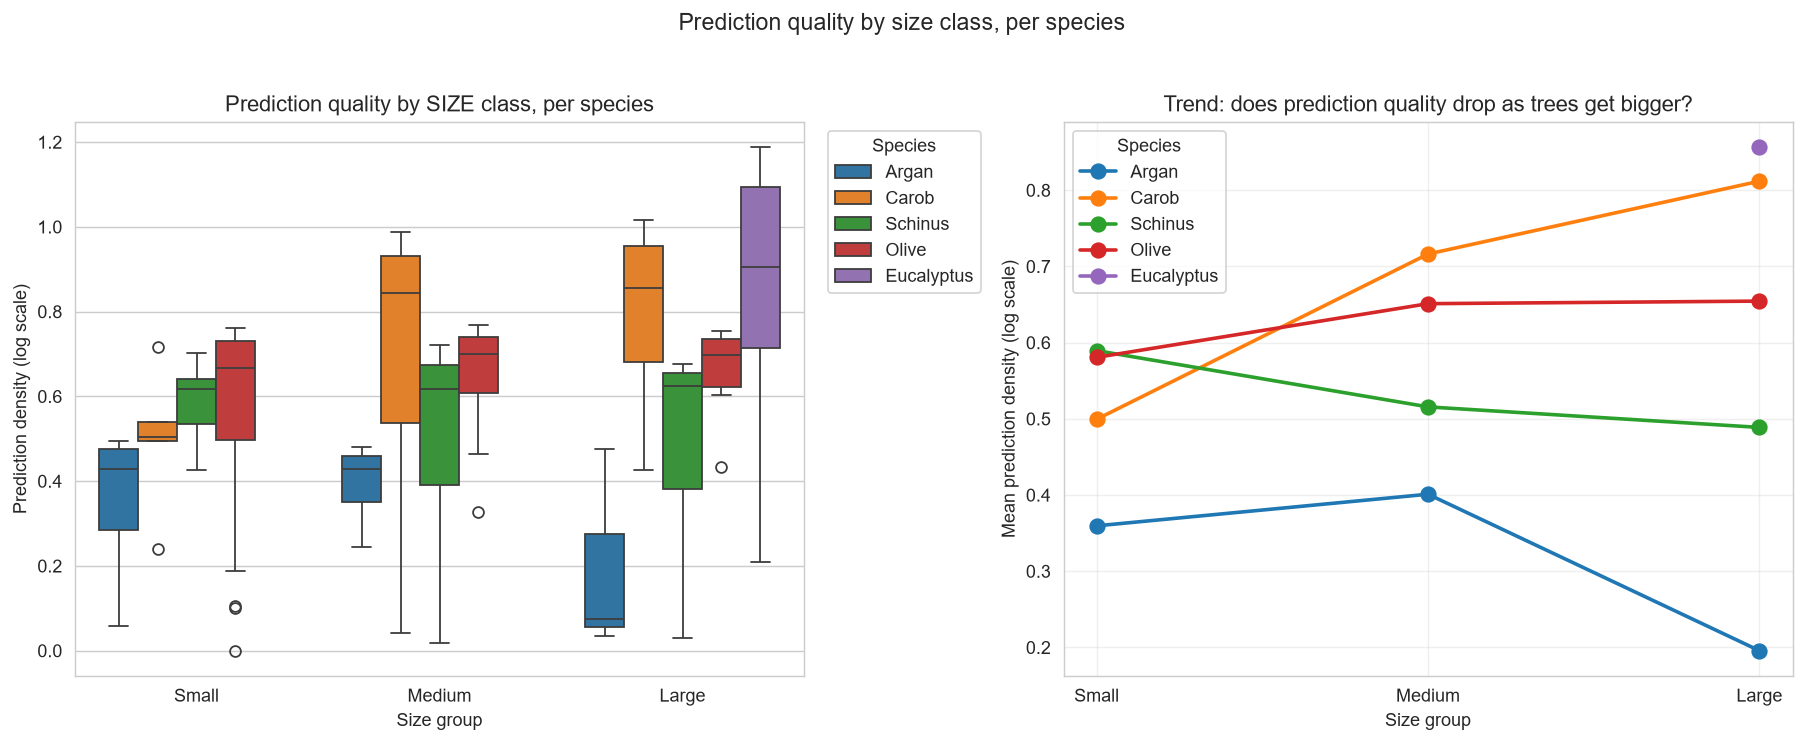
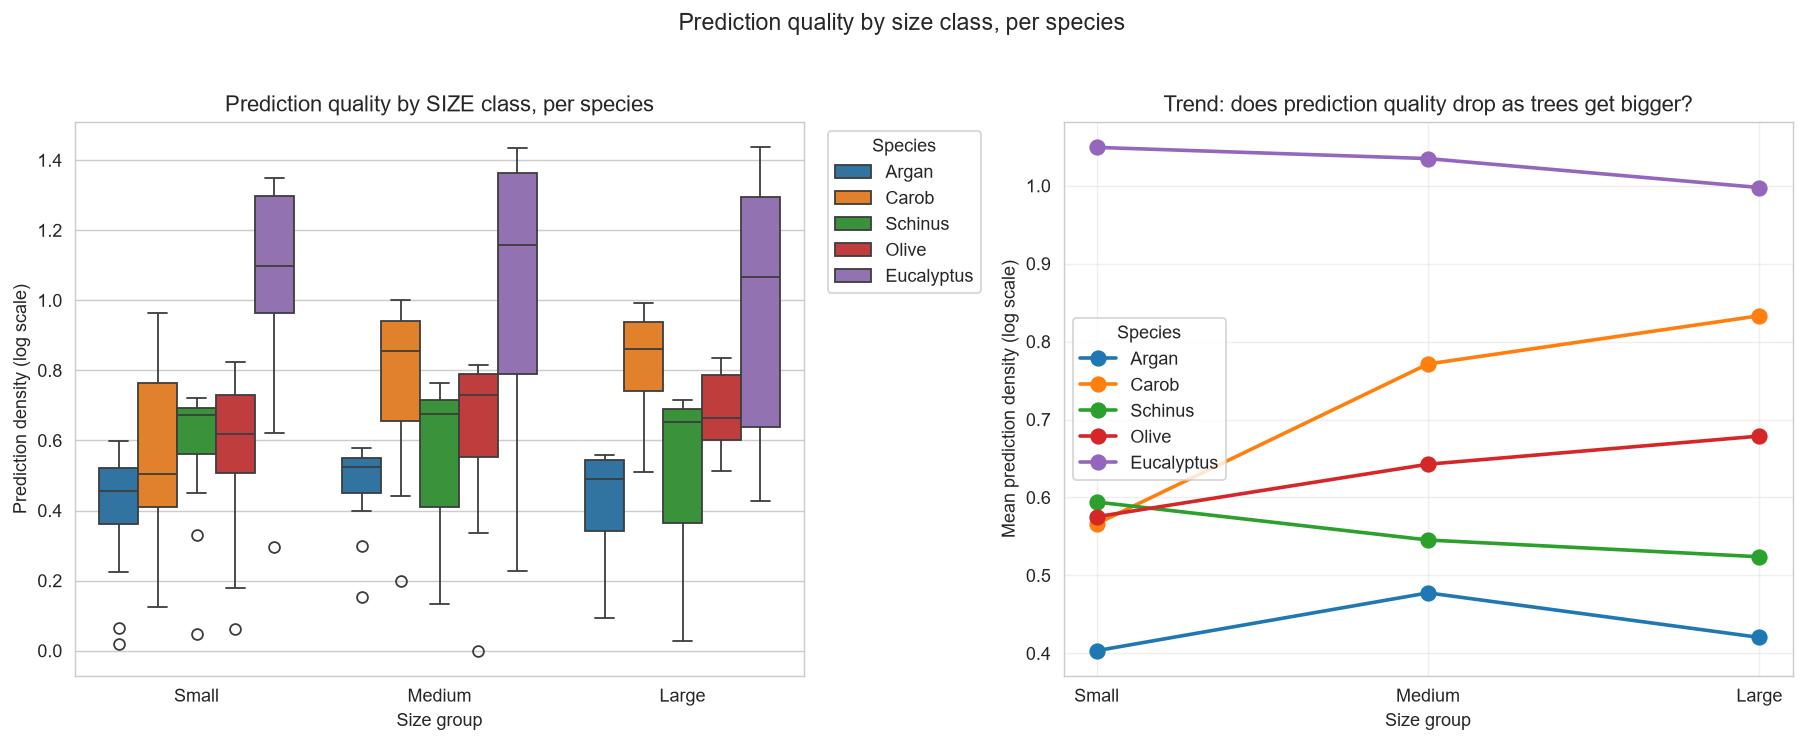
Final cleanup: fix coverage selection, size grouping, and report text for 5-species Ht+CD+BD model

diff --git a/BRAMBLE_report.md b/BRAMBLE_report.md
@@ -1,0 +1,128 @@
+# BRAMBLE Model Report (5 species, Ht+CD+BD, with Eucalyptus)
+
+A hierarchical Bayesian model predicting tree biomass (kg) from height (Ht), crown
+diameter (CD) and basal diameter (BD), fit separately per species but sharing statistical
+strength across species (partial pooling), with species-specific residual noise. This version
+adds Eucalyptus to the original four species (Olive, Argan, Schinus, Carob), the richest
+predictor set explored on this project, for comparison against the deep-learning
+(Mambou-based) pipeline and against the simpler baseline branches.
+
+## 1. Data
+- Total trees: 240
+- Species: Argan, Carob, Schinus, Olive, Eucalyptus
+- Predictors: Ht, CD, BD
+- Train / test split: 192 / 48 trees (80/20, stratified by species
+  so each species keeps its own proportion in both sets)
+
+## 2. Model
+
+    log(biomass) = beta0_species + b1_species*log(Ht) + b2_species*log(CD) + b3_species*log(BD) + error_species
+
+Biomass grows with size roughly as a power law, so fitting on the log scale turns that curve
+into a straight line. Each species gets its own intercept and slopes, but those coefficients
+are drawn from a shared population-level distribution -- species with fewer trees (Argan,
+Eucalyptus) borrow statistical strength from the others instead of being fit in isolation. The
+noise term (error_species) is also species-specific rather than shared, since different species
+have genuinely different tree-to-tree variability. The model is fit with MCMC (NUTS sampler in
+PyMC), using a non-centered parameterization, a numerical trick that only helps the sampler
+converge and does not change what is being estimated.
+
+## 3. Convergence (Step 7)
+- Divergences: 2 (0 is ideal; a handful out of thousands of draws is not a concern)
+- Max R-hat: 1.002 (target: as close to 1.00 as possible -- means the 4
+  independent chains agree with each other)
+- Min ESS: 2875 (effective sample size -- how many *independent*
+  posterior draws the chains produced; higher is more precise)
+
+These three numbers together say the sampler actually explored the posterior properly and the
+fit can be trusted -- if any of them looked bad, nothing downstream would be reliable.
+
+## 4. Overall + per-species performance (Step 9, training data)
+
+**Overall (all species combined):** R2 = 0.931, RMSE = 112.06 kg,
+CV% = 57.8%, Coverage = 87.0% (target ~80%).
+
+An overall number can hide a species-specific weakness -- a few well-predicted species can
+compensate for one badly-predicted one and the average would still look fine. The table below
+splits the same predictions out by species:
+
+| Species | R2 | RMSE | CV % | Coverage % | N trees |
+| --- | --- | --- | --- | --- | --- |
+| Argan | 0.53 | 12.66 | 85.00 | 85.30 | 34 |
+| Carob | 0.87 | 18.63 | 34.70 | 84.20 | 38 |
+| Schinus | 0.72 | 24.58 | 57.70 | 85.70 | 42 |
+| Olive | 0.89 | 7.21 | 56.60 | 93.90 | 49 |
+| Eucalyptus | 0.58 | 285.53 | 25.70 | 82.80 | 29 |
+
+**Strongest fit:** Olive (R2 = 0.893). **Weakest fit:** Argan
+(R2 = 0.534) -- see the known limitation at the end of this report.
+
+![Observed vs Predicted, overall and per species](report_figures/obs_vs_pred_per_species.png)
+
+## 5. Calibration check (Step 8)
+
+Coverage tells us *how often* the real value lands inside the predicted P10-P90 range. The
+P10-P90 range comes from simulating random tree-to-tree noise (drawn from each species' own
+sigma) around each posterior draw's predicted mean -- this simulation, on its own, already
+restores the correct average after exponentiating from the log scale, so no separate
+bias-correction factor is applied on top of it (applying both would double-count the same
+correction). The histogram below shows, for every tree, where its real value landed as a
+percentile of its own simulated distribution -- if the model is well calibrated this should
+scatter evenly across 0-100.
+
+![Calibration](report_figures/calibration.png)
+
+## 6. Held-out test set (Step 10)
+
+Training-set calibration can look good partly because the model was fit on those exact trees.
+The real test is trees the model never saw during fitting:
+- R2: 0.907
+- RMSE: 99.61 kg
+- Coverage: 85.4% (target ~80%)
+
+## 6b. Stand-level total biomass check
+
+Individual-tree coverage can look fine on average while still being biased in one direction --
+this check catches that. Every posterior draw's simulated biomass is summed across all trees
+to get one possible TOTAL for the whole plot (correctly correlated, since every tree in a given
+draw shares that draw's species-level parameters), giving a distribution of plausible totals.
+The real field-measured total is then compared against that distribution.
+
+- Real total biomass: 37199.6 kg
+- Predicted total (P10-P90): 34913.8 - 41799.3 kg (median 37995.1 kg)
+- Real total inside P10-P90? True
+- Real total lands at percentile: 37.1 (50 = perfectly centered)
+
+![Total biomass check](report_figures/total_biomass_check.png)
+
+## 7. Per-tree prediction quality (Step 12)
+
+Beyond one aggregate coverage number, this checks whether prediction quality depends on a
+tree's size, age, or species. "Prediction density" here is how much probability mass the
+model puts exactly on the tree's real value (computed on the log scale).
+
+![A few real trees, up close](report_figures/tree_density_examples.png)
+![Prediction quality by size class, per species](report_figures/quality_by_size_species.png)
+
+## 8. Normal vs Student-t likelihood comparison (Step 11)
+
+| Likelihood | 80/20 Split -- Coverage % | 5-Fold CV -- Coverage % (mean +/- std) | Leave-One-Out -- elpd (+/- se) |
+| --- | --- | --- | --- |
+| Normal | 85.42 | 83.3 +/- 8.5 | -170 +/- 19 |
+| Student-t | 77.08 | 75.0 +/- 3.9 | -160 +/- 16 |
+
+![Normal vs Student-t](report_figures/normal_vs_studentt.png)
+
+**Verdict:** kept **Normal** -- decided on 5-fold CV coverage, the validation method least
+sensitive to any single arbitrary split.
+
+## 9. Known limitation / next step
+
+**Argan** remains the weakest species (R2 = 0.534) even with Ht, CD and BD
+together, and with Eucalyptus added to the dataset. This is treated as a limitation of the
+available measurements for this species rather than a flaw in the model itself, and further
+tuning specifically aimed at this species' residual pattern was deliberately avoided to prevent
+overfitting to this one dataset. Separately, Eucalyptus has the fewest trees of any species and
+a much larger absolute biomass scale, producing a high raw RMSE and a more modest R2 despite
+good, honest calibration (coverage close to the 80% target) -- this reflects Eucalyptus's lower
+within-species variance and small sample size, not poor model fit.
